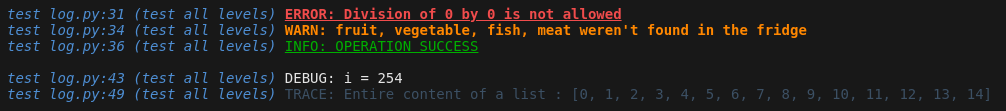
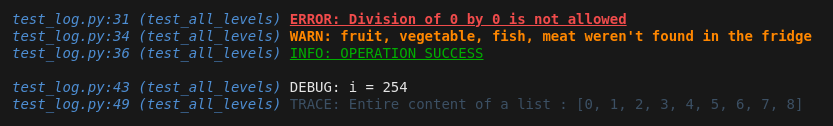
Update README

Changed region(s): [[0.0, 0.0541, 0.9988, 0.5135], [0.0, 0.6216, 0.9988, 0.9189]]

diff --git a/tests/test_log.py b/tests/test_log.py
@@ -27,7 +27,7 @@ def test_all_error_messages():
 
 
 def test_all_levels():
-    # supports multiple arguments separated by commas like python's print
+    # supports multiple arguments separated by commas like print
     log.error("Division of", 54 % 27, "by", 2 - 2, "is not allowed")
 
     # you can optionally specify `sep` and `end`
@@ -43,10 +43,10 @@ def test_all_levels():
     log.debug("i =", i)
 
     # you can output to a file (without the colors)
-    file = open("log", "w")
+    file = open("stupidlog", "w")
     log.debug("This will be printed to a file", file=file)
 
-    log.trace("Entire content of a list :", list(range(15)), end="\n\n")
+    log.trace("Entire content of a list :", list(range(9)), end="\n\n")
 
 
 def test_encapsulation():

diff --git a/README.md b/README.md
@@ -9,14 +9,44 @@ This logger is as simple as it can be with the following features :
 
 It's based on package [colored](https://pypi.org/project/colored/) for the default log colors and styles, but you can also use [colorama](https://pypi.org/project/colorama/) or custom escape sequences to set your own colors.
 
-![](pictures/log_colors.png)
+Here's an usage example :
+
+```python
+import stupidlogger as log
+
+def test_all_levels():
+    # supports multiple arguments separated by commas like print
+    log.error("Division of", 54 % 27, "by", 2 - 2, "is not allowed")
+
+    # you can optionally specify `sep` and `end`
+    log.warn(*["fruit", "vegetable", "fish", "meat"],
+             sep=", ", end=" weren't found in the fridge\n")
+    log.info("OPERATION SUCCESS", end="\n\n")
+
+    # you can filter the logs you want to see
+    log.debug("This will not be printed")
+    # default log level is `INFO`
+    log.setLogLevel(log.LogLevels.TRACE)
+    i = 254
+    log.debug("i =", i)
+
+    # you can output to a file (without the colors)
+    file = open("stupidlog", "w")
+    log.debug("This will be printed to a file", file=file)
+
+    log.trace("Entire content of a list :", list(range(9)), end="\n\n")
+
+test_all_levels()
+```
+
+![](https://github.com/inesvar/pythonLogger/raw/main/pictures/log_colors.png)
 
 ### 5 logging levels : error, warn, info, debug, trace<a name="one"></a>
 
 You can filter out logs by using `setLogLevel`. The default level is `LogLevels.INFO`.
 
 ```python
-from stupidlogger.src.log import *
+from stupidlogger import *
 
 setLogLevel(LogLevels.DEBUG)
 ```
@@ -26,15 +56,15 @@ setLogLevel(LogLevels.DEBUG)
 Contrary to the `logging` module, you can print multiple arguments separated by commas.
 
 ```python
-warn("This is a useful message with data", 54 + 25,
+info("This is a useful message with data", 54 + 25,
      "and other stuff", list(range(1)), end="\n\n")
 ```
-![](pictures/warn_example.png)
+![](https://github.com/inesvar/pythonLogger/raw/main/pictures/info_example.png)
 
 Actually the log functions' signatures are exactly the same as for `print` (you can also print to a file!).
 
 ```python
-warn(*objects, sep=' ', end='\n', file=None, flush=False)
+info(*objects, sep=' ', end='\n', file=None, flush=False)
 ```
 
 ### The colors and header info are entirely customizable<a name="three"></a>
@@ -44,6 +74,23 @@ The log outputs are made of two parts : the header and the message.
 You can change the information in the header using `setHeader`, and its color using `setSecondaryColor`.
 
 You can also change the 5 colors associated with the log levels using `setLogColors`.
+
+Here's an example script using colorama and its output :
+```python
+from stupidlogger import *
+from colorama import Fore
+
+setLogLevel(LogLevels.TRACE)
+setHeader("{color}{filename}:{lineno} ({function}) {log_name}:{reset} ")
+setLogColors([Fore.BLUE, Fore.CYAN, Fore.GREEN, Fore.YELLOW, Fore.BLACK])
+error("error")
+warn("warn")
+info("info")
+debug("debug")
+trace("trace")
+```
+
+![](https://github.com/inesvar/pythonLogger/raw/main/pictures/colorama_example.png)
 
 ### If you still have questions<a name="four"></a>
 
